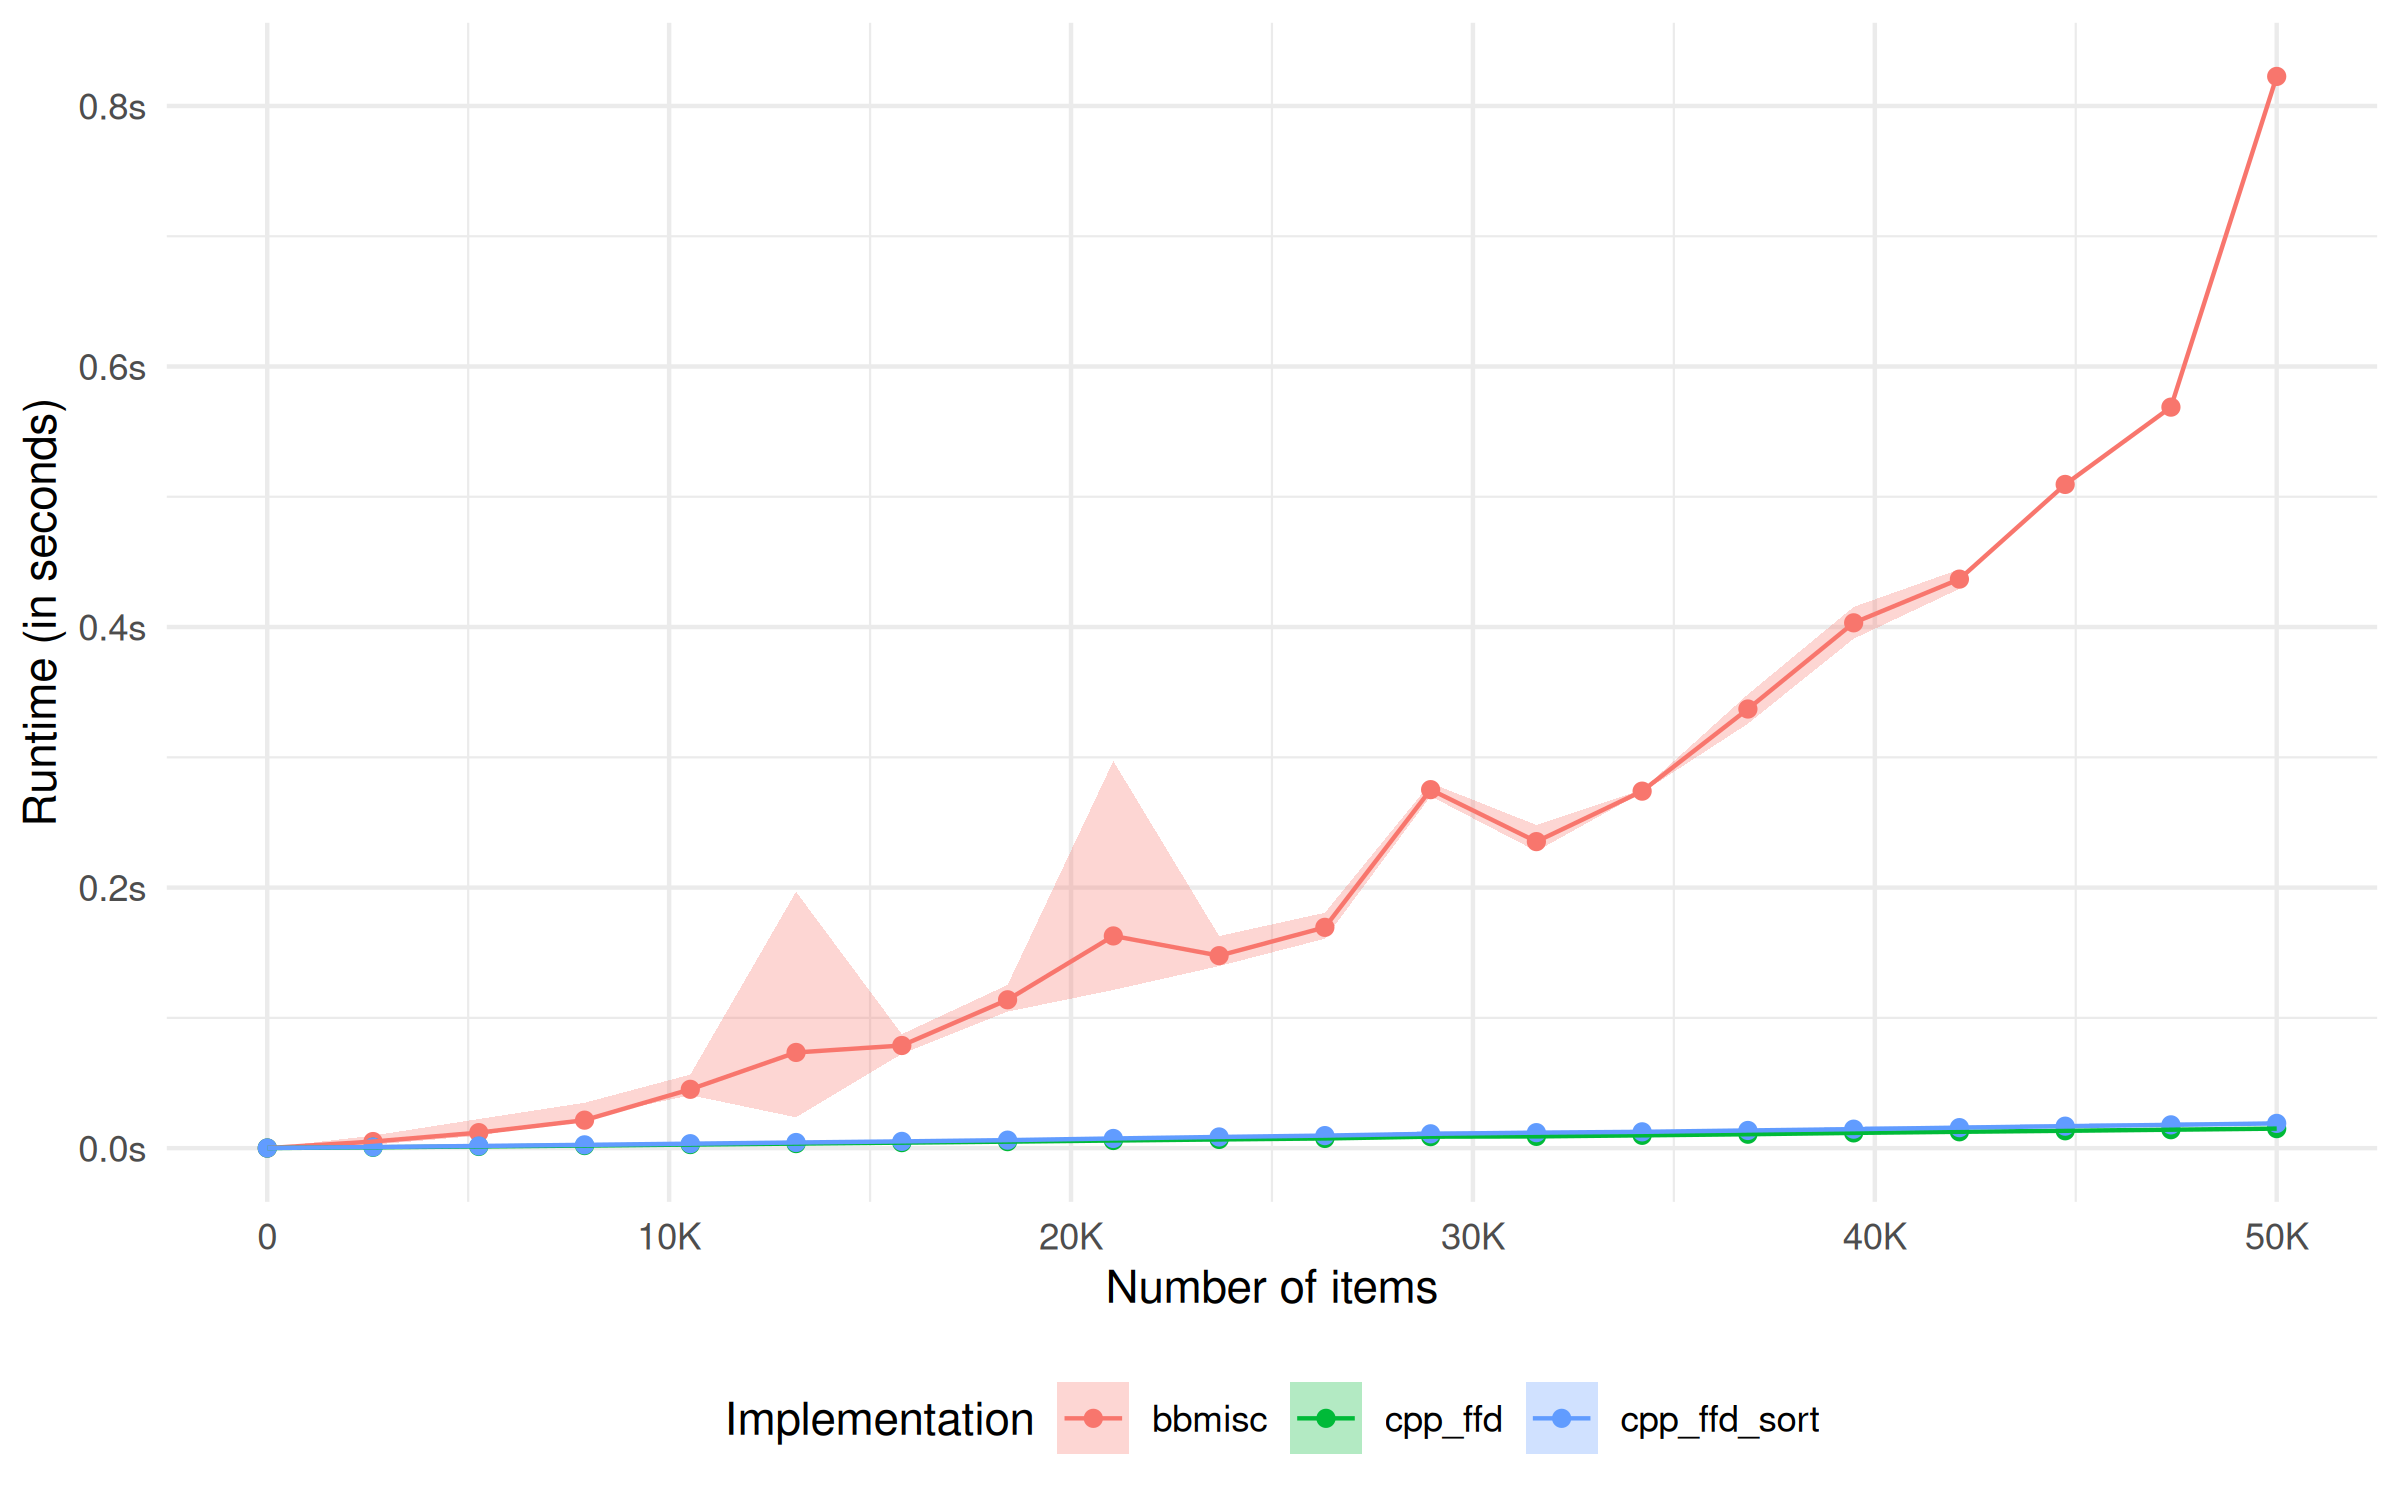
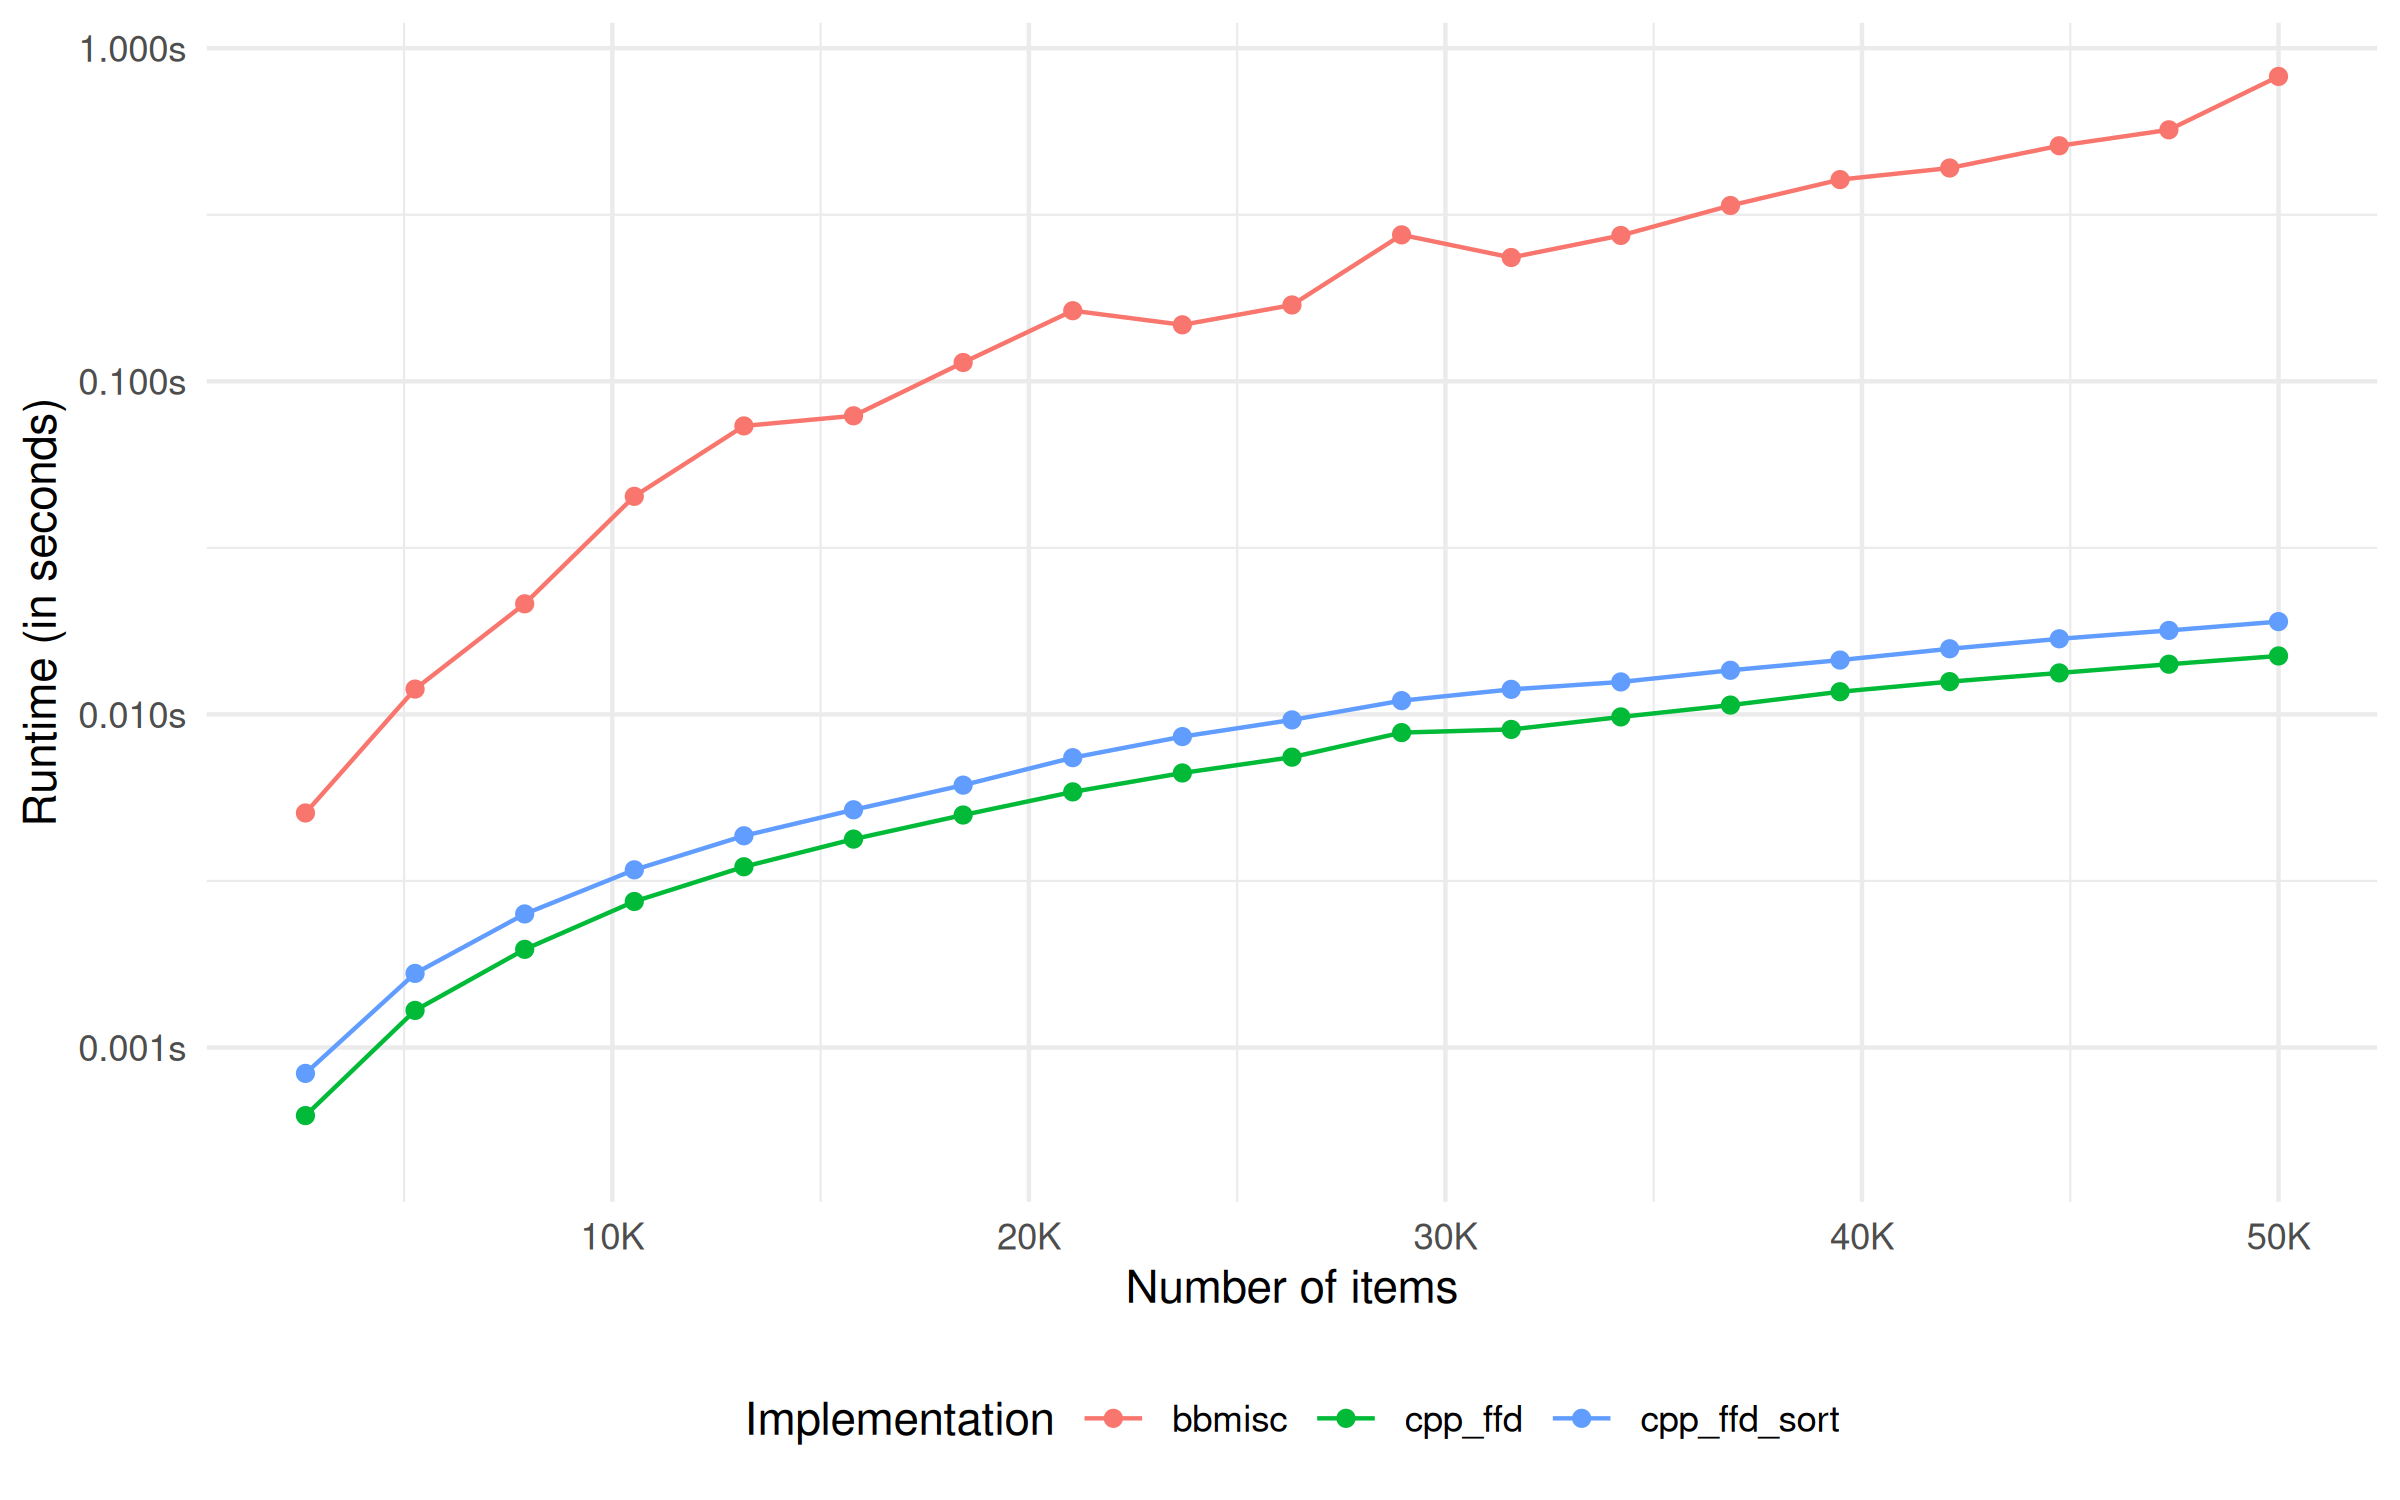
update README

diff --git a/README.md b/README.md
@@ -64,16 +64,10 @@ made it clear that speed was none of their concern. BBmisc’s
 implementation is written in R while this package uses a C++
 implementation.
 
-### Run time
-
-    #> Warning: Removed 3 rows containing missing values or values outside the scale range
-    #> (`geom_ribbon()`).
+### Run time (logarithmic scale)
 
 <img src="man/figures/README-benchmark_runtime-1.png" alt="" width="100%" />
 
 ### Memory allocation
-
-    #> Ignoring unknown labels:
-    #> • fill : "Implementation"
 
 <img src="man/figures/README-benchmark_memory-1.png" alt="" width="100%" />
